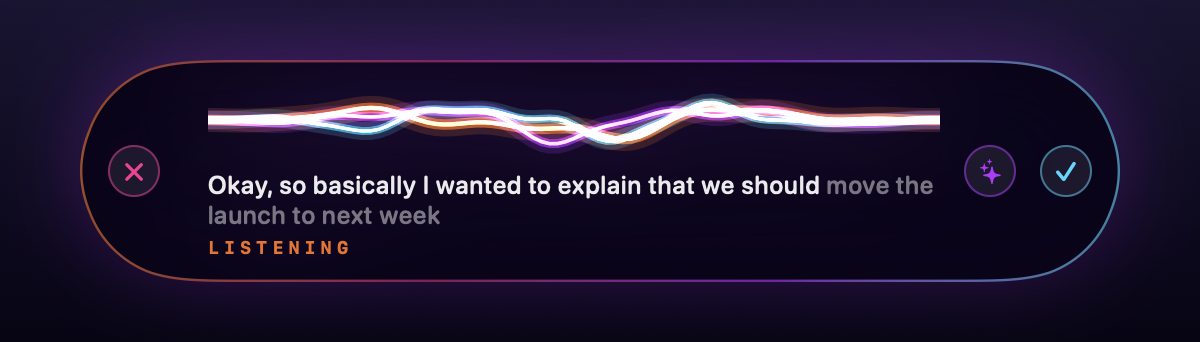
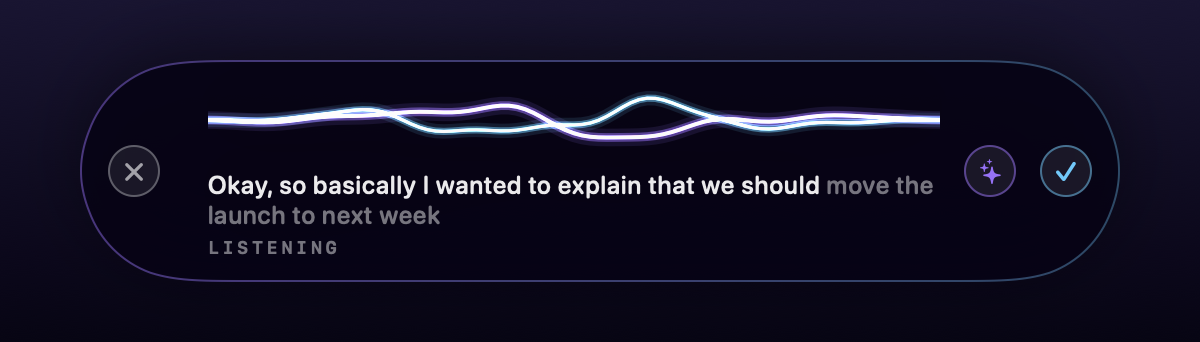
Calm the visual identity down to one accent
The dashboard headline was a four-color gradient, every stat card had
its own neon border and glow, and the HUD waveform was three clashing
ribbons inside a rainbow rim — five things shouting at once. The disco
identity now lives in the app mark and a single violet accent (with a
cyan partner in the waveform); cards share one quiet style (white 5%
fill, 8% border), numbers are plain white with tabular digits, working
HUD states use muted text, and only error states get a color of their
own. README images regenerated.

diff --git a/Sources/WaveformCore/Settings/DashboardView.swift b/Sources/WaveformCore/Settings/DashboardView.swift
@@ -26,6 +26,12 @@ public struct DashboardView: View {
         }
     }
 
+    /// The single accent: everything interactive or highlighted uses this,
+    /// so the disco identity lives in the app mark instead of shouting from
+    /// every card at once.
+    static let accent = Color(red: 0.62, green: 0.44, blue: 1.00)
+    static let cardStroke = Color.white.opacity(0.08)
+
     static let orange = Color(red: 1.00, green: 0.45, blue: 0.10)
     static let violet = Color(red: 0.72, green: 0.20, blue: 1.00)
     static let cyan = Color(red: 0.16, green: 0.85, blue: 1.00)
@@ -166,22 +172,17 @@ private struct HomeTab: View {
                     DiscoIconView(showsPlate: false)
                         .frame(width: 46, height: 46)
                     Text(greeting)
-                        .font(.system(size: 32, weight: .black, design: .rounded))
-                        .foregroundStyle(
-                            LinearGradient(
-                                colors: [DashboardView.orange, DashboardView.pink, DashboardView.violet, DashboardView.cyan],
-                                startPoint: .leading, endPoint: .trailing
-                            )
-                        )
+                        .font(.system(size: 27, weight: .semibold, design: .rounded))
+                        .foregroundStyle(.primary)
                 }
                 Text("Speak anywhere. Clean text lands at your cursor. 100% on-device.")
                     .foregroundStyle(.secondary)
 
                 HStack(spacing: 14) {
-                    statCard("Words dictated", "\(history.totalWords)", DashboardView.orange)
-                    statCard("Dictations", "\(history.totalDictations)", DashboardView.violet)
-                    statCard("This week", "\(history.wordsThisWeek) words", DashboardView.cyan)
-                    statCard("Speed", history.averageWordsPerMinute > 0 ? "\(history.averageWordsPerMinute) wpm" : "—", DashboardView.pink)
+                    statCard("Words dictated", "\(history.totalWords)")
+                    statCard("Dictations", "\(history.totalDictations)")
+                    statCard("This week", "\(history.wordsThisWeek) words")
+                    statCard("Speed", history.averageWordsPerMinute > 0 ? "\(history.averageWordsPerMinute) wpm" : "—")
                 }
 
                 if !topApps.isEmpty {
@@ -196,7 +197,7 @@ private struct HomeTab: View {
                                 .padding(.horizontal, 12)
                                 .padding(.vertical, 7)
                                 .background(Capsule().fill(.white.opacity(0.06)))
-                                .overlay(Capsule().strokeBorder(DashboardView.cyan.opacity(0.3), lineWidth: 1))
+                                .overlay(Capsule().strokeBorder(DashboardView.cardStroke, lineWidth: 1))
                             }
                         }
                     }
@@ -227,23 +228,23 @@ private struct HomeTab: View {
         }
     }
 
-    private func statCard(_ title: String, _ value: String, _ color: Color) -> some View {
+    private func statCard(_ title: String, _ value: String) -> some View {
         VStack(alignment: .leading, spacing: 6) {
             Text(title).font(.caption).foregroundStyle(.secondary)
             Text(value)
-                .font(.system(size: 22, weight: .bold, design: .rounded))
-                .foregroundStyle(color)
-                .shadow(color: color.opacity(0.6), radius: 8)
+                .font(.system(size: 22, weight: .semibold, design: .rounded))
+                .monospacedDigit()
+                .foregroundStyle(.primary)
         }
         .padding(14)
         .frame(maxWidth: .infinity, alignment: .leading)
-        .background(RoundedRectangle(cornerRadius: 14).fill(.white.opacity(0.05)))
-        .overlay(RoundedRectangle(cornerRadius: 14).strokeBorder(color.opacity(0.35), lineWidth: 1))
+        .background(RoundedRectangle(cornerRadius: 12).fill(.white.opacity(0.05)))
+        .overlay(RoundedRectangle(cornerRadius: 12).strokeBorder(DashboardView.cardStroke, lineWidth: 1))
     }
 
     private func tip(_ text: String) -> some View {
         HStack(alignment: .top, spacing: 8) {
-            Image(systemName: "waveform").foregroundStyle(DashboardView.cyan).font(.caption)
+            Image(systemName: "waveform").foregroundStyle(DashboardView.accent).font(.caption)
             Text(text).font(.callout).foregroundStyle(.primary.opacity(0.85))
         }
     }
@@ -269,7 +270,7 @@ private struct DictionaryTab: View {
                 .scrollContentBackground(.hidden)
                 .padding(10)
                 .background(RoundedRectangle(cornerRadius: 12).fill(.white.opacity(0.05)))
-                .overlay(RoundedRectangle(cornerRadius: 12).strokeBorder(DashboardView.violet.opacity(0.3), lineWidth: 1))
+                .overlay(RoundedRectangle(cornerRadius: 12).strokeBorder(DashboardView.cardStroke, lineWidth: 1))
                 .onChange(of: dictionaryText) { _, newValue in
                     AppSettings.shared.dictionaryText = newValue
                 }
@@ -310,7 +311,7 @@ private struct DictionaryTab: View {
                             .padding(.horizontal, 10)
                             .padding(.vertical, 6)
                             .background(Capsule().fill(.white.opacity(0.06)))
-                            .overlay(Capsule().strokeBorder(DashboardView.violet.opacity(0.35), lineWidth: 1))
+                            .overlay(Capsule().strokeBorder(DashboardView.cardStroke, lineWidth: 1))
                         }
                     }
                 }
@@ -348,7 +349,7 @@ private struct PromptsTab: View {
                             VStack(alignment: .leading, spacing: 3) {
                                 Text("//\(template.trigger)")
                                     .font(.system(size: 13, weight: .bold, design: .monospaced))
-                                    .foregroundStyle(DashboardView.cyan)
+                                    .foregroundStyle(DashboardView.accent)
                                 Text(template.title)
                                     .font(.callout)
                                     .foregroundStyle(.primary.opacity(0.9))
@@ -404,7 +405,7 @@ private struct PromptsTab: View {
                                 Image(systemName: "trash")
                             }
                             .buttonStyle(.plain)
-                            .foregroundStyle(DashboardView.pink.opacity(0.85))
+                            .foregroundStyle(.secondary)
                         }
 
                         Text("Instructions given to the local model")
@@ -418,7 +419,7 @@ private struct PromptsTab: View {
                         .scrollContentBackground(.hidden)
                         .padding(10)
                         .background(RoundedRectangle(cornerRadius: 12).fill(.white.opacity(0.05)))
-                        .overlay(RoundedRectangle(cornerRadius: 12).strokeBorder(DashboardView.cyan.opacity(0.3), lineWidth: 1))
+                        .overlay(RoundedRectangle(cornerRadius: 12).strokeBorder(DashboardView.cardStroke, lineWidth: 1))
                     }
                 } else {
                     VStack {
@@ -495,12 +496,12 @@ private struct HistoryRow: View {
                         .font(.caption)
                         .foregroundStyle(.secondary)
                     if let app = record.appName {
-                        Text("→ \(app)").font(.caption).foregroundStyle(DashboardView.cyan.opacity(0.8))
+                        Text("→ \(app)").font(.caption).foregroundStyle(DashboardView.accent.opacity(0.9))
                     }
                     Spacer()
                     Text(copied ? "Copied ✓" : "\(record.wordCount) words")
                         .font(.caption)
-                        .foregroundStyle(copied ? DashboardView.cyan : .secondary)
+                        .foregroundStyle(copied ? DashboardView.accent : .secondary)
                 }
                 Text(record.text)
                     .font(.callout)
@@ -565,7 +566,7 @@ private struct SnippetsTab: View {
                                 VStack(alignment: .leading, spacing: 3) {
                                     Text("“\(snippet.trigger)”")
                                         .font(.callout.weight(.semibold))
-                                        .foregroundStyle(DashboardView.cyan)
+                                        .foregroundStyle(DashboardView.accent)
                                     Text(snippet.expansion)
                                         .font(.callout)
                                         .lineLimit(2)
@@ -577,7 +578,7 @@ private struct SnippetsTab: View {
                                     AppSettings.shared.snippets = snippets
                                 } label: {
                                     Image(systemName: "trash")
-                                        .foregroundStyle(DashboardView.pink.opacity(0.8))
+                                        .foregroundStyle(.secondary)
                                 }
                                 .buttonStyle(.plain)
                             }
@@ -610,7 +611,7 @@ private struct ScratchpadTab: View {
                 .scrollContentBackground(.hidden)
                 .padding(10)
                 .background(RoundedRectangle(cornerRadius: 12).fill(.white.opacity(0.05)))
-                .overlay(RoundedRectangle(cornerRadius: 12).strokeBorder(DashboardView.orange.opacity(0.3), lineWidth: 1))
+                .overlay(RoundedRectangle(cornerRadius: 12).strokeBorder(DashboardView.cardStroke, lineWidth: 1))
         }
         .padding(28)
     }

diff --git a/Sources/WaveformCore/HUD/HUDView.swift b/Sources/WaveformCore/HUD/HUDView.swift
@@ -14,10 +14,8 @@ struct HUDView: View {
     /// Fixed time for deterministic offscreen snapshots.
     var frozenTime: Double? = nil
 
-    private static let orange = Color(red: 1.00, green: 0.45, blue: 0.10)
-    private static let violet = Color(red: 0.72, green: 0.20, blue: 1.00)
-    private static let cyan = Color(red: 0.16, green: 0.85, blue: 1.00)
-    private static let pink = Color(red: 1.00, green: 0.18, blue: 0.57)
+    private static let accent = Color(red: 0.62, green: 0.44, blue: 1.00)
+    private static let cyan = Color(red: 0.30, green: 0.80, blue: 1.00)
 
     private var statusText: String {
         switch state.phase {
@@ -29,13 +27,21 @@ struct HUDView: View {
         }
     }
 
+    /// Working states stay quiet; only the two states that need the user's
+    /// attention (press ⌘V yourself, an error) get a color of their own.
     private var statusColor: Color {
         switch state.phase {
-        case .listening: return Self.orange
-        case .finalizing: return Self.cyan
-        case .polishing: return Self.violet
+        case .listening: return Self.accent
+        case .finalizing, .polishing: return Self.cyan
         case .noAccessibility: return Color(red: 1.00, green: 0.80, blue: 0.20)
-        case .error: return Color(red: 1.00, green: 0.30, blue: 0.30)
+        case .error: return Color(red: 1.00, green: 0.36, blue: 0.36)
+        }
+    }
+
+    private var statusTextColor: Color {
+        switch state.phase {
+        case .listening, .finalizing, .polishing: return .white.opacity(0.45)
+        default: return statusColor
         }
     }
 
@@ -54,7 +60,7 @@ struct HUDView: View {
     // cross-fade between two different views (which read as a flicker).
     var body: some View {
         HStack(spacing: expanded ? 12 : 9) {
-            roundButton(symbol: "xmark", color: Self.pink, enabled: isActive) { onCancel?() }
+            roundButton(symbol: "xmark", color: .white.opacity(0.6), enabled: isActive) { onCancel?() }
                 .frame(width: expanded ? 26 : 0)
                 .opacity(expanded ? 1 : 0)
                 .scaleEffect(expanded ? 1 : 0.4)
@@ -78,9 +84,9 @@ struct HUDView: View {
                     liveText
                         .frame(maxWidth: .infinity, alignment: .leading)
                     Text(statusText)
-                        .font(.system(size: 9, weight: .bold, design: .monospaced))
-                        .tracking(2.5)
-                        .foregroundStyle(statusColor.opacity(0.95))
+                        .font(.system(size: 9, weight: .semibold, design: .monospaced))
+                        .tracking(1.8)
+                        .foregroundStyle(statusTextColor)
                         .frame(maxWidth: .infinity, alignment: .leading)
                 }
                 .frame(height: expanded ? 46 : 0)
@@ -88,7 +94,7 @@ struct HUDView: View {
                 .clipped()
             }
 
-            roundButton(symbol: "sparkles", color: Self.violet, enabled: isActive && canPolish) {
+            roundButton(symbol: "sparkles", color: Self.accent, enabled: isActive && canPolish) {
                 onPolish?(NSEvent.modifierFlags.contains(.option))
             }
             .frame(width: expanded ? 26 : 0)
@@ -109,7 +115,7 @@ struct HUDView: View {
         .frame(width: expanded ? 520 : 196)
         .background(pillBackground)
         .overlay(pillRim)
-        .shadow(color: Self.violet.opacity(0.30), radius: expanded ? 22 : 16, y: 5)
+        .shadow(color: .black.opacity(0.45), radius: expanded ? 18 : 12, y: 6)
         .animation(.spring(response: 0.40, dampingFraction: 0.84), value: expanded)
         .frame(maxWidth: .infinity, maxHeight: .infinity, alignment: .bottom)
     }
@@ -134,19 +140,16 @@ struct HUDView: View {
     }
 
     private var pillRim: some View {
+        // One quiet gradient in the accent family — the rim frames the pill
+        // instead of competing with the waveform inside it.
         Capsule(style: .continuous)
             .strokeBorder(
                 LinearGradient(
-                    colors: [
-                        Self.orange.opacity(0.6),
-                        Self.pink.opacity(0.5),
-                        Self.violet.opacity(0.6),
-                        Self.cyan.opacity(0.6),
-                    ],
+                    colors: [Self.accent.opacity(0.45), Self.cyan.opacity(0.35)],
                     startPoint: .leading,
                     endPoint: .trailing
                 ),
-                lineWidth: 1.2
+                lineWidth: 1
             )
     }
 

diff --git a/Sources/WaveformCore/HUD/WaveformView.swift b/Sources/WaveformCore/HUD/WaveformView.swift
@@ -1,8 +1,9 @@
 import SwiftUI
 
-/// 90s retro-futuristic music-visualizer waveform: three neon ribbons
-/// (sunset orange, ultraviolet magenta, electric cyan) weaving across a dark
-/// void, glowing, amplitude driven by the live microphone level.
+/// Music-visualizer waveform: two ribbons in the app's accent family
+/// (violet and cyan) weaving across a dark void, amplitude driven by the
+/// live microphone level. Two hues that sit next to each other read as one
+/// glowing voice; a third contrasting hue read as noise.
 ///
 /// Rendering notes for efficiency: one Canvas, three strokes per ribbon
 /// (halo, glow, core), no offscreen effects, and the TimelineView pauses
@@ -22,21 +23,15 @@ struct WaveformView: View {
 
     private static let ribbons: [Ribbon] = [
         Ribbon(
-            color: Color(red: 1.00, green: 0.45, blue: 0.10), // sunset orange
-            harmonics: [(1.7, 1.00, 4.8), (3.9, 0.50, -3.4), (7.1, 0.26, 7.2)],
+            color: Color(red: 0.62, green: 0.44, blue: 1.00), // accent violet
+            harmonics: [(1.7, 1.00, 4.2), (3.9, 0.42, -3.0), (7.1, 0.18, 6.0)],
             phaseOffset: 0.0,
-            thickness: 2.4
+            thickness: 2.2
         ),
         Ribbon(
-            color: Color(red: 0.72, green: 0.20, blue: 1.00), // ultraviolet
-            harmonics: [(2.3, 1.00, -4.1), (4.7, 0.45, 5.7), (8.3, 0.22, -6.5)],
-            phaseOffset: 2.1,
-            thickness: 2.0
-        ),
-        Ribbon(
-            color: Color(red: 0.16, green: 0.85, blue: 1.00), // electric cyan
-            harmonics: [(2.9, 1.00, 3.5), (5.3, 0.42, -5.0), (9.7, 0.18, 4.6)],
-            phaseOffset: 4.2,
+            color: Color(red: 0.30, green: 0.80, blue: 1.00), // cyan partner
+            harmonics: [(2.3, 1.00, -3.6), (4.7, 0.40, 4.8), (8.3, 0.16, -5.4)],
+            phaseOffset: 2.6,
             thickness: 1.8
         ),
     ]
@@ -71,13 +66,13 @@ struct WaveformView: View {
             // Halo → glow → hot core, additively blended.
             graphics.stroke(
                 path,
-                with: .color(ribbon.color.opacity(0.18)),
-                style: StrokeStyle(lineWidth: ribbon.thickness * 5, lineCap: .round, lineJoin: .round)
+                with: .color(ribbon.color.opacity(0.12)),
+                style: StrokeStyle(lineWidth: ribbon.thickness * 4, lineCap: .round, lineJoin: .round)
             )
             graphics.stroke(
                 path,
-                with: .color(ribbon.color.opacity(0.55)),
-                style: StrokeStyle(lineWidth: ribbon.thickness * 2.2, lineCap: .round, lineJoin: .round)
+                with: .color(ribbon.color.opacity(0.45)),
+                style: StrokeStyle(lineWidth: ribbon.thickness * 2, lineCap: .round, lineJoin: .round)
             )
             graphics.stroke(
                 path,
